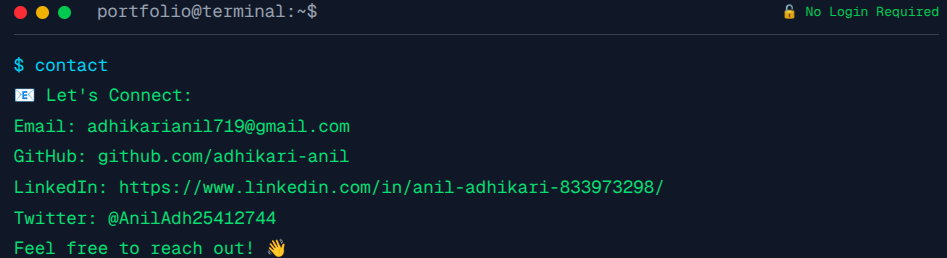
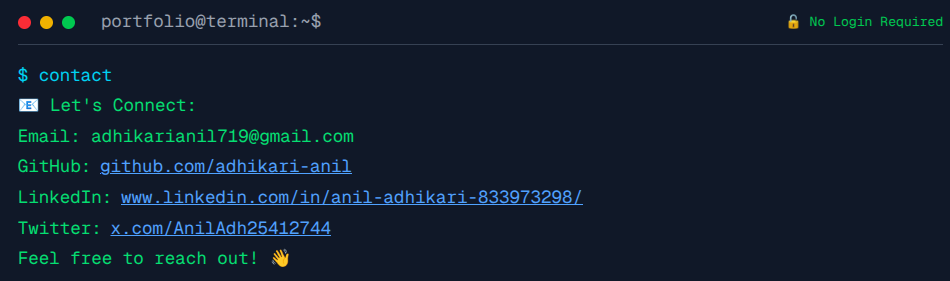
fix: add clickable link and font change

diff --git a/src/app/constant/steps.tsx b/src/app/constant/steps.tsx
@@ -5,7 +5,7 @@ export const steps = [
     selector: "#help",
     content: (
       <div className="flex flex-col gap-2">
-        <p> This will guide you available commands ! </p>
+        <p className="font-bold"> This will guide you available commands ! </p>
         <Image src={"/helpDemo.png"} alt="hello" height={400} width={800} />
       </div>
     ),
@@ -14,7 +14,7 @@ export const steps = [
     selector: "#about",
     content: (
       <div className="flex flex-col gap-2">
-        <p> Important Information about me ! </p>
+        <p className="font-bold"> Information about me ! </p>
         <Image src={"/aboutDemo.png"} alt="hello" height={400} width={800} />
       </div>
     ),
@@ -23,7 +23,7 @@ export const steps = [
     selector: "#skills",
     content: (
       <div className="flex flex-col gap-2">
-        <p> Skills I have and I can work on them. </p>
+        <p className="font-bold"> Skills I have and I can work on them. </p>
         <Image src={"/skillsDemo.png"} alt="hello" height={400} width={800} />
       </div>
     ),
@@ -32,7 +32,7 @@ export const steps = [
     selector: "#projects",
     content: (
       <div className="flex flex-col gap-2">
-        <p> Projects and their Details </p>
+        <p className="font-bold"> Projects and their Details </p>
         <Image src={"/projectDemo.png"} alt="hello" height={400} width={800} />
       </div>
     ),
@@ -41,8 +41,28 @@ export const steps = [
     selector: "#listproject",
     content: (
       <div className="flex flex-col gap-2">
-        <p> Get projects ids and see its code and live link. </p>
-        <Image src={"/listDemo.png"} alt="hello" height={400} width={800} />
+        <p className="font-bold">
+          {" "}
+          Get projects ids and see its code and live link.{" "}
+        </p>
+        <Image src={"/listprojectDemo.png"} alt="hello" height={400} width={800} />
+      </div>
+    ),
+  },
+  {
+    selector: "#direct",
+    content: (
+      <div className="flex flex-col gap-2">
+        <p className="font-bold">
+          {" "}
+          Type code {"<projectId>"} and get Direct code and live link.
+        </p>
+        <Image
+          src={"/code-livelink.png"}
+          alt="hello"
+          height={400}
+          width={800}
+        />
       </div>
     ),
   },
@@ -50,7 +70,7 @@ export const steps = [
     selector: "#contact",
     content: (
       <div className="flex flex-col gap-2">
-        <p> Contact Me! </p>
+        <p className="font-bold"> Contact Me! </p>
         <Image src={"/contactDemo.png"} alt="hello" height={400} width={800} />
       </div>
     ),
@@ -59,7 +79,7 @@ export const steps = [
     selector: "#clear",
     content: (
       <div className="flex flex-col gap-2">
-        <p>Clear all the content for terminal</p>
+        <p className="font-bold">Clear all the content for terminal</p>
         <Image src={"/clearDemo.png"} alt="hello" height={400} width={800} />
       </div>
     ),

diff --git a/src/app/page.tsx b/src/app/page.tsx
@@ -20,6 +20,8 @@ export default function CLIPortfolio() {
   const inputRef = useRef<HTMLInputElement>(null);
   const terminalRef = useRef<HTMLDivElement>(null);
 
+  console.log("History check: ", history);
+
   useEffect(() => {
     const welcomeMessage = [
       "Welcome to my CLI Portfolio! 🚀",
@@ -198,6 +200,29 @@ export default function CLIPortfolio() {
     }
   };
 
+  function renderLineContent(content: string) {
+    if (/^(GitHub|LinkedIn|Twitter):/.test(content)) {
+      const label = content.split(":")[0];
+      const link = content.split(":")[1].trim();
+
+      return (
+        <div className="flex gap-2">
+          <p>{label}:</p>
+          <a
+            href={`https://${link}`}
+            target="_blank"
+            rel="noopener noreferrer"
+            className="text-blue-400 underline hover:text-blue-300"
+          >
+            {link}
+          </a>
+        </div>
+      );
+    }
+
+    return content;
+  }
+
   const handleKeyDown = (e: React.KeyboardEvent) => {
     if (e.key === "Enter") {
       executeCommand(currentInput);
@@ -276,7 +301,7 @@ export default function CLIPortfolio() {
                     : "text-green-400"
                 }`}
               >
-                {line.content}
+                {renderLineContent(line.content)}
               </span>
             </div>
           ))}
@@ -288,7 +313,7 @@ export default function CLIPortfolio() {
           )}
 
           {/* Current Input Line */}
-          <div className="flex items-center mt-2">
+          <div className="flex items-center mt-2" id="direct">
             <span className="text-cyan-400 mr-2">$</span>
             <input
               ref={inputRef}
@@ -354,19 +379,6 @@ export default function CLIPortfolio() {
 
       {/* Main Content */}
       <div className="max-w-7xl mx-auto">
-        {/* {viewMode === "terminal" && (
-          <div className="max-w-4xl mx-auto">{renderTerminal()}</div>
-        )} */}
-
-        {/* {viewMode === "split" && selectedProject && (
-          <div className="grid grid-cols-2 gap-4 h-[calc(100vh-140px)]">
-            <div>{renderTerminal()}</div>
-            <div>
-              <EnhancedCodeViewer project={selectedProject} />
-            </div>
-          </div>
-        )} */}
-
         {viewMode === "code" && selectedProject && (
           <div className="h-[calc(100vh-140px)]">
             <EnhancedCodeViewer project={selectedProject} />

diff --git a/src/app/constant/projects.ts b/src/app/constant/projects.ts
@@ -32,7 +32,7 @@ export const projects: Project[] = [
     repo: "InstantShare",
   },
   {
-    id: "Tracking System",
+    id: "trackingsystem",
     name: "Location tracking Platform",
     description: "A simple tracking system.",
     tech: ["Nodejs", "HTML", "CSS"],
@@ -88,7 +88,7 @@ export const commands = {
       "  code       - Open integrated code viewer",
       "  browse     - Browse code externally (GitHub1s)",
       "",
-      "💡 Try 'code <project-id>' for integrated VS Code experience!",
+      "💡 Try 'code <project-id>' for integrated VS Code experience and Live Link!",
     ],
   },
   about: {
@@ -135,7 +135,7 @@ export const commands = {
         `   • Commands: 'code ${project.id}' (integrated) or 'browse ${project.id}' (external)`,
         "",
       ]),
-      "💡 Use 'code <project-id>' for integrated VS Code experience!",
+      "💡 Use 'code <project-id>' for integrated VS Code experience and Live Link!",
     ],
   },
   listproject: {
@@ -147,7 +147,7 @@ export const commands = {
         `${index + 1}. ${project.name}`,
         `   • ID: ${project.id}`,
       ]),
-      "💡 Use 'code <project-id>' for integrated VS Code experience!",
+      "💡 Use 'code <project-id>' for integrated VS Code experience and Live Link!",
     ],
   },
   contact: {
@@ -157,8 +157,8 @@ export const commands = {
       "",
       "Email: adhikarianil719@gmail.com",
       "GitHub: github.com/adhikari-anil",
-      "LinkedIn: https://www.linkedin.com/in/anil-adhikari-833973298/",
-      "Twitter: @AnilAdh25412744",
+      "LinkedIn: www.linkedin.com/in/anil-adhikari-833973298/",
+      "Twitter: x.com/AnilAdh25412744",
       "",
       "Feel free to reach out! 👋",
     ],

diff --git a/src/app/layout.tsx b/src/app/layout.tsx
@@ -14,8 +14,8 @@ const geistMono = Geist_Mono({
 });
 
 export const metadata: Metadata = {
-  title: "Create Next App",
-  description: "Generated by create next app",
+  title: "Portfolio",
+  description: "Generated by Developer",
 };
 
 export default function RootLayout({
